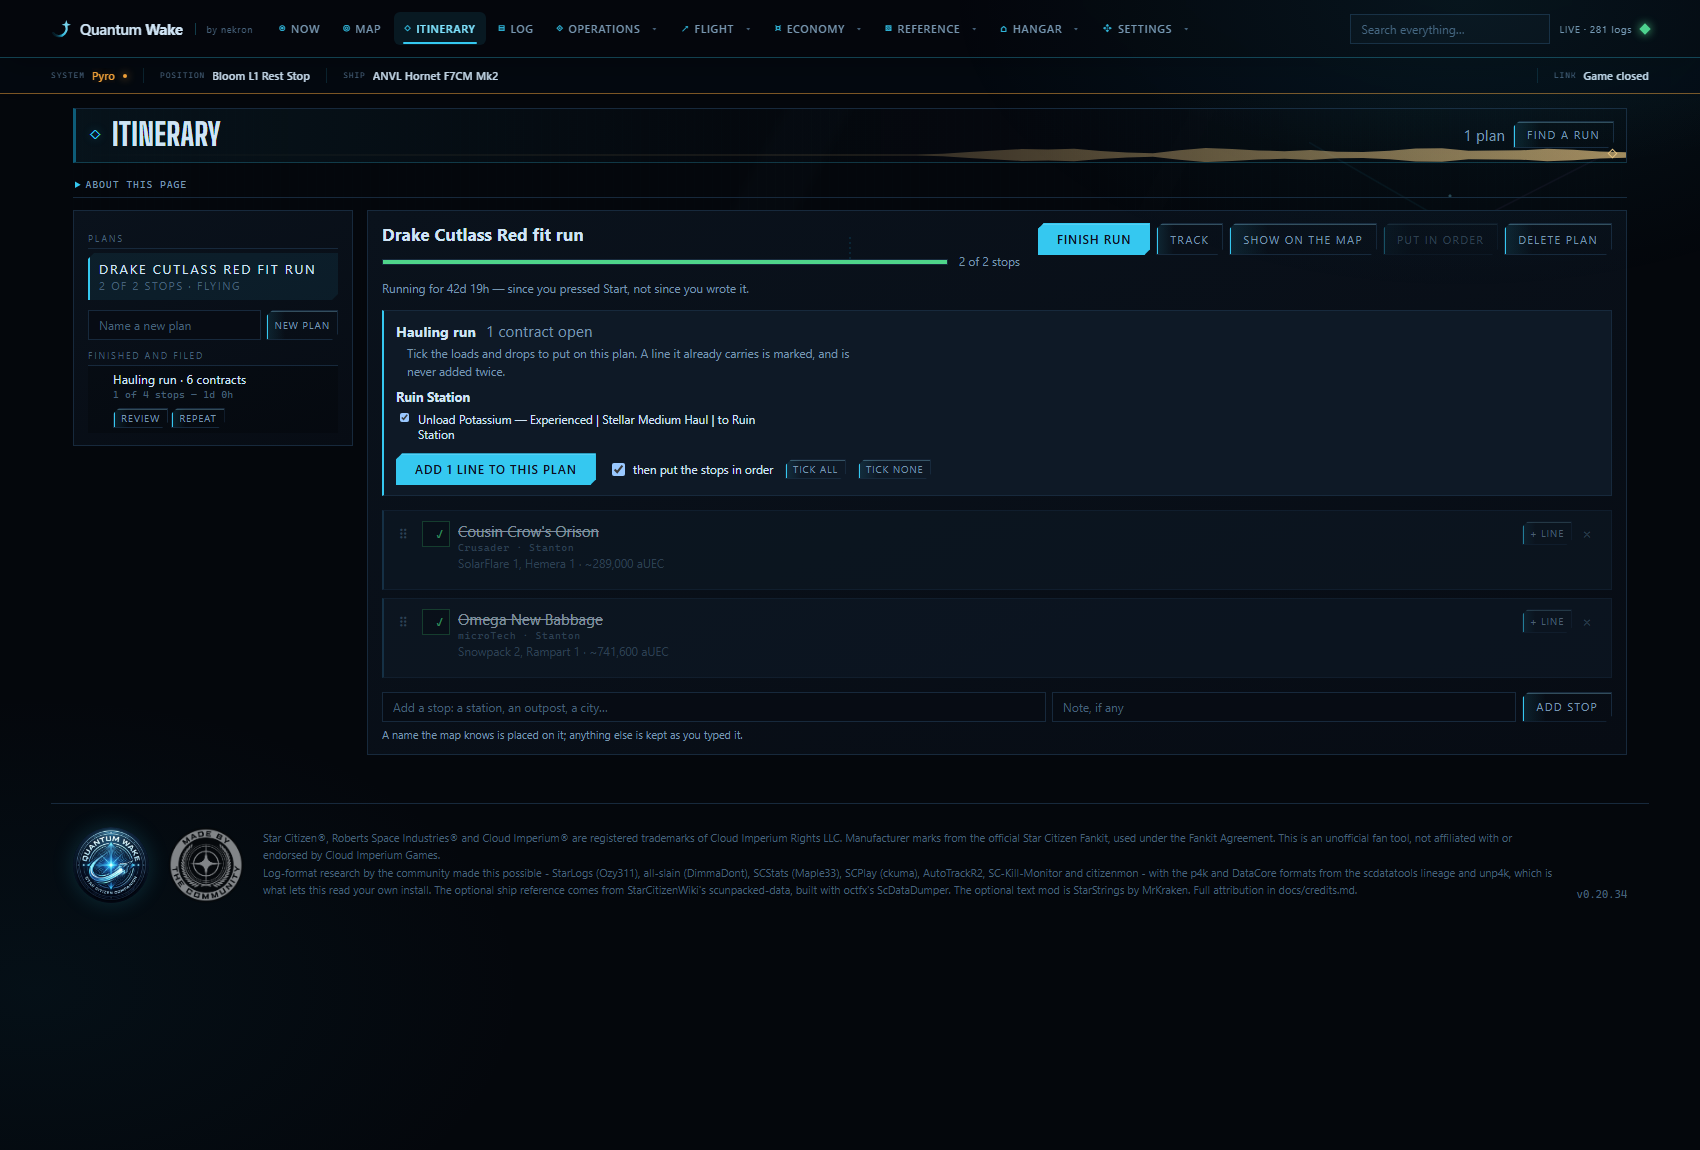
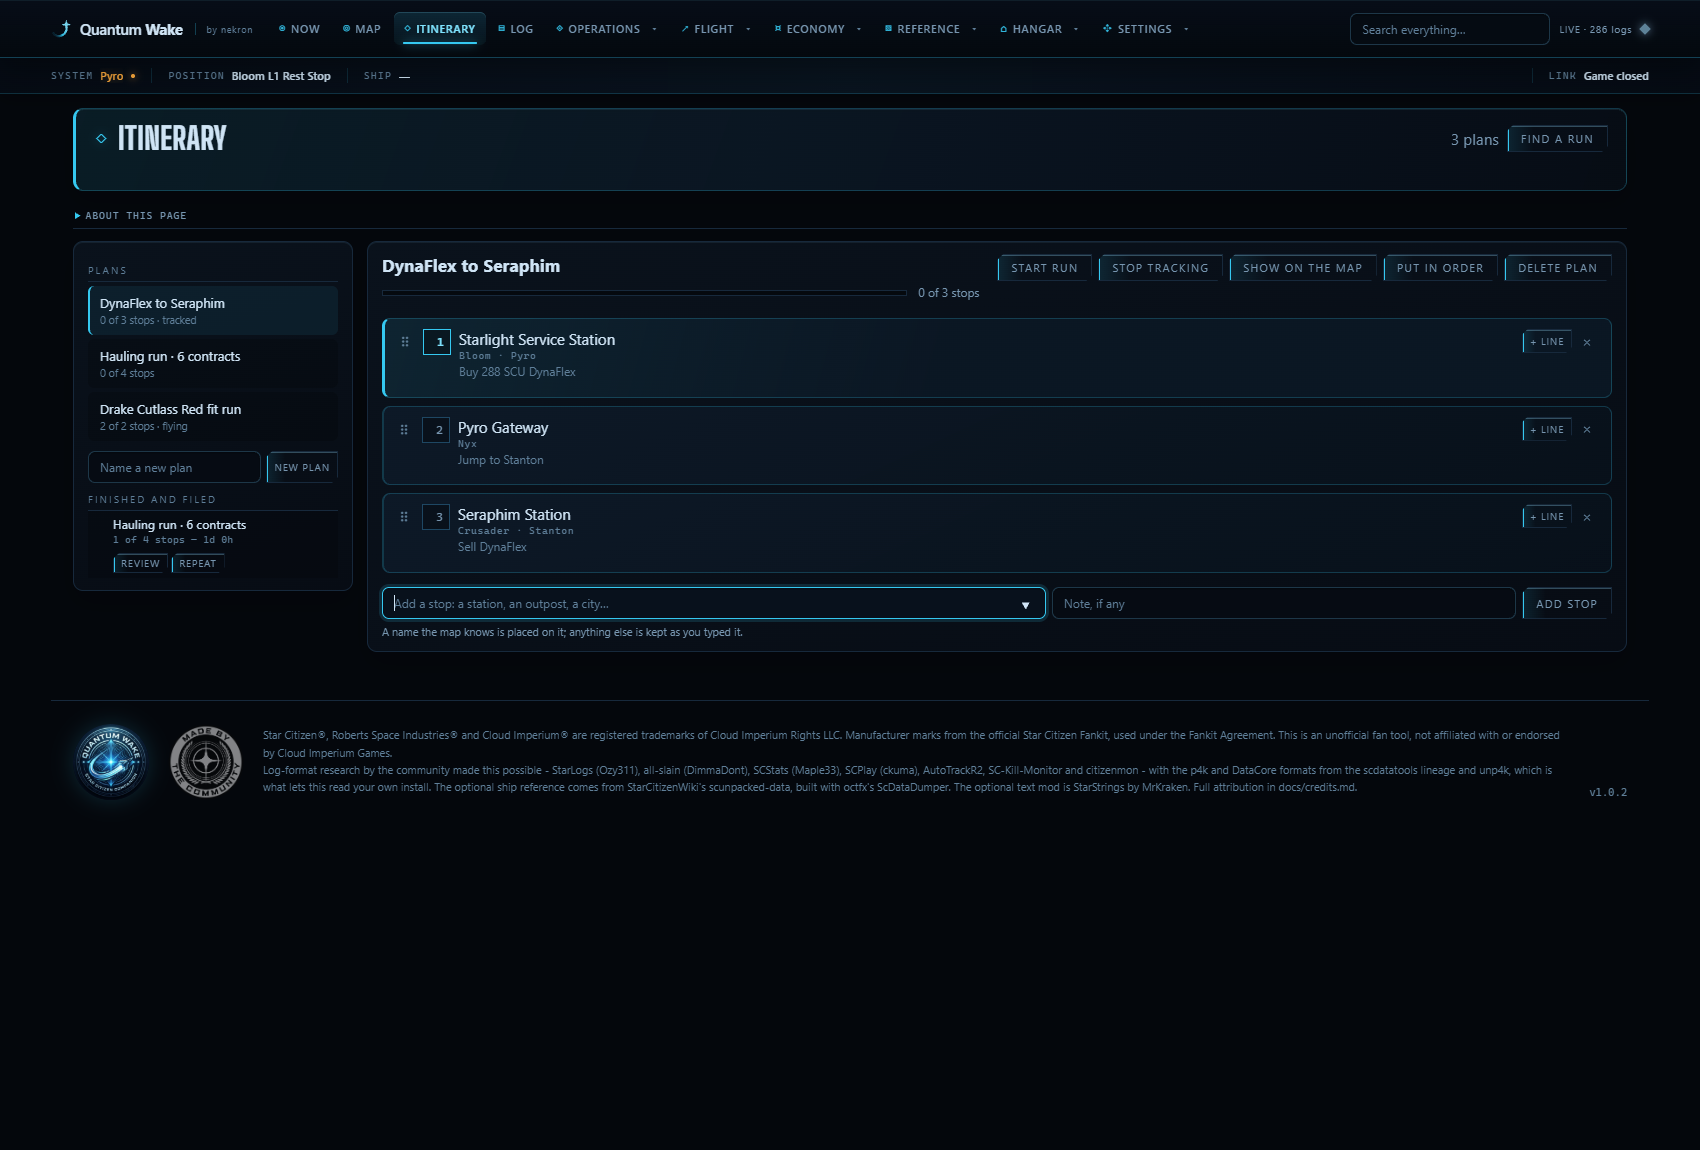
Retake every README screenshot and show the 3D view, Armoury tabs and new references
All fifteen pages are retaken from a copy of the real install's data on
1.0.2, at 1700 px, after the flight-deck restyle they all predated. Routes
plans for the Hermes so its cargo table has runs in it, and the Itinerary
shows a fresh three-stop plan rather than one whose contracts had ended.

Nine new pictures: the 3D view (the F7C-M Super Hornet Mk II in its own
livery), Fleet in 3D, an armour set, the size comparison, Reference ->
3D models, Missions and Encounters, and the Armoury's Suit calculator and
Climate tabs. The 3D shots were drawn by headless Chrome on SwiftShader.

The README gains a 3D row in the lead gallery and two rows in "More
pages", and its view table names what Reference and Hangar hold now; each
feature's doc carries its picture under the title.

Docs and images only; nothing in the build changes, so no version bump.

diff --git a/README.md b/README.md
@@ -24,6 +24,11 @@ there is no account and no required online service.
     <td width="33%"><a href="docs/images/map.png"><img src="docs/images/map.png" alt="The map"></a><br><sub><b>Map</b><br>Find places you have visited and nearby refuel, repair or clinic services.</sub></td>
     <td width="33%"><a href="docs/images/itinerary.png"><img src="docs/images/itinerary.png" alt="The Itinerary page"></a><br><sub><b>Itinerary</b><br>Lay out a flight plan stop by stop, and merge a hauling run into it.</sub></td>
   </tr>
+  <tr>
+    <td width="33%"><a href="docs/images/ship3d.png"><img src="docs/images/ship3d.png" alt="A ship in the 3D view"></a><br><sub><b>3D view</b><br>Any ship, vehicle, gun or armour from your install's own models, with its loadout fitted and swappable.</sub></td>
+    <td width="33%"><a href="docs/images/fleet3d.png"><img src="docs/images/fleet3d.png" alt="The fleet in 3D"></a><br><sub><b>Fleet in 3D</b><br>The ships you own side by side on one floor, smallest first, each in its own paint.</sub></td>
+    <td width="33%"><a href="docs/images/armour3d.png"><img src="docs/images/armour3d.png" alt="An armour set in 3D"></a><br><sub><b>Armour in 3D</b><br>A whole suit in one colourway, opened from any helmet, torso, arm or leg piece.</sub></td>
+  </tr>
 </table>
 
 <details>
@@ -50,8 +55,21 @@ there is no account and no required online service.
     <td><a href="docs/images/armoury.png"><img src="docs/images/armoury.png" alt="The Armoury"></a><br><sub><b>Armoury</b><br>Guns, armour and attachments from your installed game files.</sub></td>
     <td><a href="docs/images/loot.png"><img src="docs/images/loot.png" alt="The Loot page"></a><br><sub><b>Loot</b><br>Where any item drops, read from the game's own loot tables, beside what you have found.</sub></td>
   </tr>
+  <tr>
+    <td><a href="docs/images/suit.png"><img src="docs/images/suit.png" alt="The suit calculator"></a><br><sub><b>Suit calculator</b><br>What a suit weighs, carries and lets you take in G, from the game files.</sub></td>
+    <td><a href="docs/images/climate.png"><img src="docs/images/climate.png" alt="The Climate tab"></a><br><sub><b>Climate</b><br>Which suits cope on each planet and moon, from its baseline temperature and the suits' own ranges.</sub></td>
+    <td><a href="docs/images/compare.png"><img src="docs/images/compare.png" alt="The size comparison"></a><br><sub><b>Size comparison</b><br>Ships side by side at their real size; add and remove them freely.</sub></td>
+  </tr>
+  <tr>
+    <td><a href="docs/images/models.png"><img src="docs/images/models.png" alt="The 3D models page"></a><br><sub><b>3D models</b><br>Every hull the install can draw, by maker, in the game's own pictures of them.</sub></td>
+    <td><a href="docs/images/missions.png"><img src="docs/images/missions.png" alt="The Missions reference"></a><br><sub><b>Missions</b><br>Every contract in the game files, with its issuer, places and pay, beside your own runs.</sub></td>
+    <td><a href="docs/images/encounters.png"><img src="docs/images/encounters.png" alt="The Encounters reference"></a><br><sub><b>Encounters</b><br>The NPC waves and hold cargo a contract can send, from the game's mission data.</sub></td>
+  </tr>
 </table>
 </details>
+
+The 3D view reads your own Star Citizen install, `Data.p4k`, so it shows the
+models of the patch you are actually playing. Nothing is downloaded for it.
 
 The dashboard is for planning and history. The optional overlay gives the same
 short answers over the game, and the optional Cougar MFD mode keeps navigation,
@@ -111,8 +129,8 @@ QuantumWake.exe --path "D:\...\StarCitizen\LIVE"
 | Plan the work: the Command deck, a cargo or rep run, contracts, reputation, checklists, blueprints, Wikelo trades or an event | **Operations** |
 | Review a flight, session, place, server, crewmate or death | **Flight** |
 | Follow money in and out, your cargo, or commodity prices | **Economy** |
-| Look up ships, components, items, loot odds, mining or crafting | **Reference** |
-| See your ships, fittings, loadout and stash, bench a part in the Garage, or compare guns in the Armoury | **Hangar** |
+| Look up ships, components, items, missions, encounters, loot odds, mining or crafting, or open any hull in 3D | **Reference** |
+| See your ships, fittings, loadout and stash, bench a part in the Garage, or compare guns, add up a suit and check it against a climate in the Armoury | **Hangar** |
 | Keep a small answer visible in Star Citizen | **Overlay** |
 
 ## Optional extras

diff --git a/docs/viewer3d.md b/docs/viewer3d.md
@@ -1,5 +1,13 @@
 # The 3D view — ships, vehicles, weapons and armour from the install's own models
 
+![The F7C-M Super Hornet Mk II in the 3D view, with its loadout list](images/ship3d.png)
+
+![Fleet in 3D: the owned ships side by side, smallest first](images/fleet3d.png)
+
+![The size comparison with five ships](images/compare.png)
+
+![An armour set opened from the Armoury](images/armour3d.png)
+
 Built for 0.21.0 to 0.21.9 (2026-11-03) against 4.10.2 LIVE, build 12913470.
 Everything the view draws is read out of `Data.p4k` on this machine; nothing
 is downloaded. The code is `Quantumwake.Core/GameData/GameModels.cs` (what can
@@ -33,6 +41,8 @@ of its set in the same colourway where the files have it; a Full suit box
 shows the piece alone.
 
 ## What the page lists
+
+![Reference: 3D models, by maker](images/models.png)
 
 `/api/models/list` is the hulls a pilot can fly and the personal weapons that
 have a name in the game's text. The rest - NPC variants and test pieces - share

diff --git a/docs/suit-calculator.md b/docs/suit-calculator.md
@@ -1,5 +1,7 @@
 # Suit calculator — what a suit weighs, carries and lets you take, from the files
 
+![The suit calculator tab in the Armoury](images/suit.png)
+
 Built as 0.21.3 and 0.21.4 (2026-11-03), an Armoury tab. Read from 4.10.2
 LIVE (build 12913470) and checked against the 4.10 PTU of 2026-11-03
 (4.10.199.51990), which agree on every figure below. The readers are

diff --git a/docs/armoury.md b/docs/armoury.md
@@ -389,6 +389,8 @@ saved kits or game data are changed by using the bench.
 
 ## Climate: which suit copes where (0.20.41)
 
+![The Climate tab in the Armoury](images/climate.png)
+
 Measured on 4.10.2; `dotnet run --project src\Quantumwake.Cli -c Release -- --climate --data <scratch folder>`
 reprints all of it.
 

diff --git a/docs/encounters.md b/docs/encounters.md
@@ -1,5 +1,7 @@
 # NPC encounters and what their holds carry, from the game files
 
+![Reference: Encounters](images/encounters.png)
+
 Measured on 4.10.2 against this install. Every figure below is printed again by:
 
 ```powershell

diff --git a/docs/missions.md b/docs/missions.md
@@ -1,5 +1,7 @@
 # What a contract pays, from the game files
 
+![Reference: Missions](images/missions.png)
+
 Measured on 4.10.2 against this install: 282 log files, 751 logged contracts.
 Every figure below is printed again by:
 
